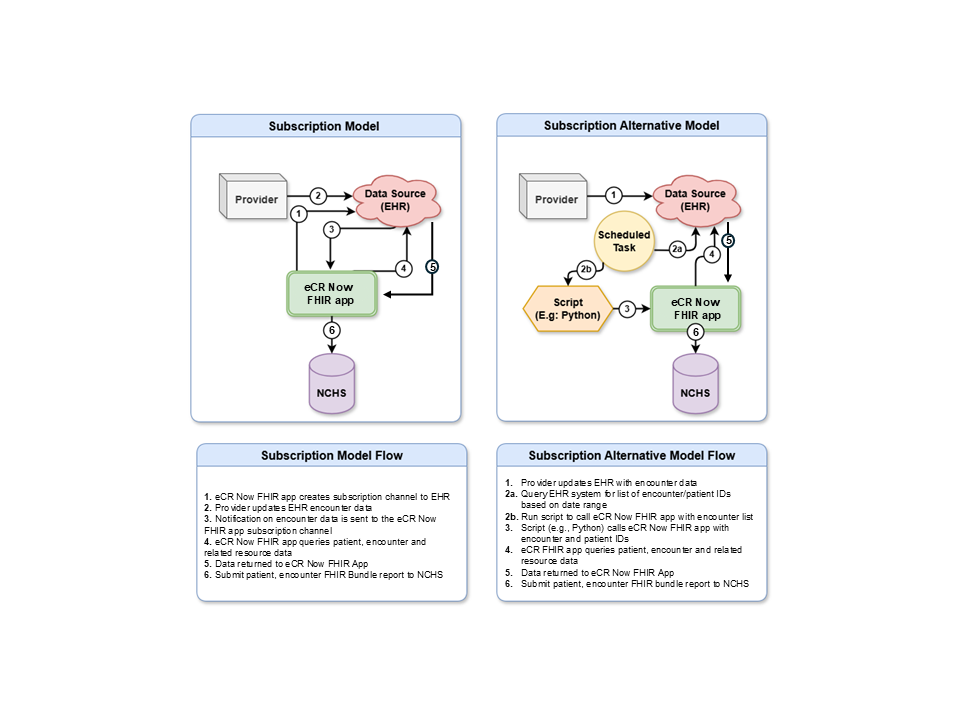
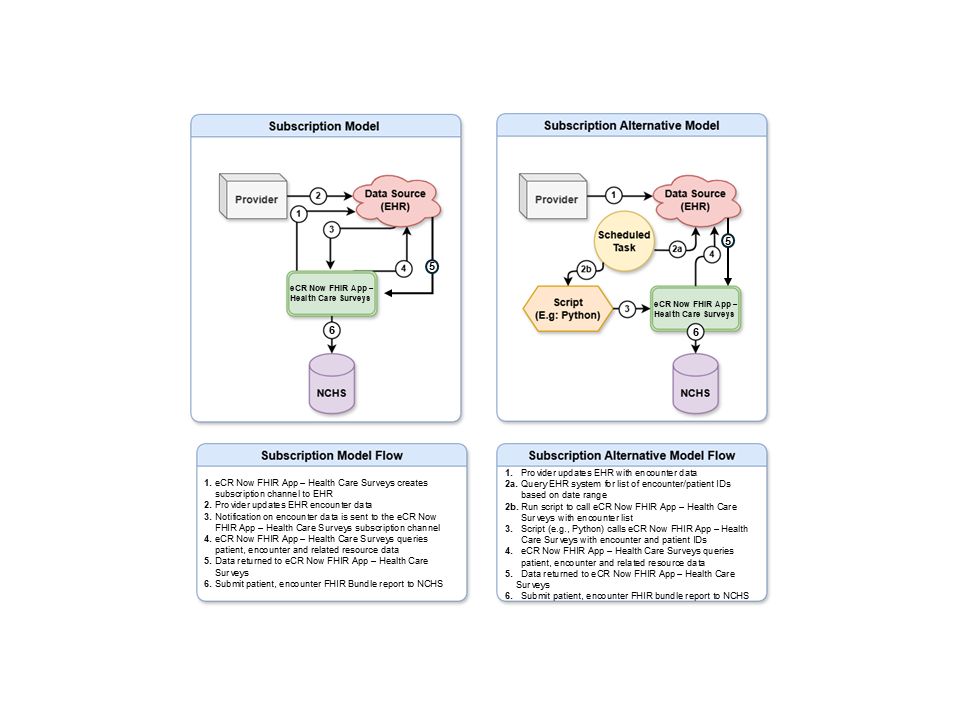
Update to Branding

diff --git a/input/pagecontent/usecases.md b/input/pagecontent/usecases.md
@@ -11,14 +11,14 @@ This FHIR IG references a framework for FHIR reporting based on the eCR Now fram
 
 #### Goals of the Use Case
 
-This use case builds on the work already done by the eCR Now FHIR app with the goal of automating reporting of health surveys data, while reducing the burden on health care providers and modernizing workflows.  Providers can use the eCR Now FHIR App (Health Care Surveys) or develop their own vendor-developed solution to meet the requirements of this IG.  Providers already in production with the eCR program may be able to leverage some of the work done for the eCR Now use case.
+This use case builds on the work already done by the eCR Now FHIR app with the goal of automating reporting of health surveys data, while reducing the burden on health care providers and modernizing workflows.  Providers can use the eCR Now FHIR App- Health Care Surveys or develop their own vendor-developed solution to meet the requirements of this IG.  Providers already in production with the eCR program may be able to leverage some of the work done for the eCR Now use case.
 
 The goals of the Health Care Survey submission use case include:
 * Increase the response rate of sampled hospitals and ambulatory health care providers to the NHCS and the NAMCS.
 * Increase the volume, quality, completeness, and timeliness of data submitted to the NHCS and NAMCS.
 * Reduce the burden, including cost, associated with survey participation for hospitals, ambulatory health care providers, and data source vendors.
 * Reduce NCHS’s costs associated with recruiting hospital and ambulatory health care providers, and the processing of NHCS and NAMCS data.
-* Develop a complete use case supported by the eCR Now FHIR app- Health Care Surveys to allow the reporting of health care survey data from health care providers and systems to NCHS. 
+* Develop a complete use case supported by the eCR Now FHIR App- Health Care Surveys to allow the reporting of health care survey data from health care providers and systems to NCHS. 
 
 ##### Scope of the Use Case
 
@@ -36,7 +36,7 @@ The goals of the Health Care Survey submission use case include:
 * Assessment of the data quality of the content extracted from the Data Source. 
 * Data captured outside the Data Source and communicated directly to registries. 
 * Changes to existing provider workflow or existing data entry. 
-* Policies of the clinical care setting to collect consent for data sharing. (Provider participation in the National Health Care Surveys is by invitation by NCHS based on being selected as part of the nationally representative samples of hospitals or providers. Consent for participation in each National Health Care Survey is obtained during the manual recruitment process.) Adult day services centers, residential care communities, nursing homes, home health agencies, and hospice.
+* Policies of the clinical care setting to collect consent for data sharing. (Provider participation in the National Health Care Surveys is by invitation by NCHS based on being selected as part of the nationally representative samples of hospitals or providers. Consent for participation in each National Health Care Survey is obtained during the manual recruitment process.)
 
 
 #### **User Story #1: Ambulatory Setting** 
@@ -44,7 +44,7 @@ The goals of the Health Care Survey submission use case include:
 **Background:** The National Ambulatory Medical Care Survey (NAMCS) is based on a sample of patient visits to non-federally employed office-based providers who are primarily engaged in direct patient care. NAMCS was redesigned and launched as the Health Center (HC) Component in 2021, the Provider Survey Component in 2023, and is planning to launch the Provider Electronic Component. The Health Center Component samples from health centers while the two provider components sample from physicians and advanced practice providers. NAMCS collects an encounter-based set of demographic and clinical data generally available in a medical record for any type of visit. 
 
  
-**Workflow:** Upon completion of an encounter, the physician or licensed clinician, using the EHR, completes and closes the clinical encounter ("sign off"). This "sign off" triggers the eCR Now FHIR App (Health Care Surveys) or vendor developed solution to evaluate the completed encounter. The completed encounter evaluation includes validating that the provider associated with the encounter is a "sampled" NAMCS provider and the encounter occurred within a specified timeframe. If the encounter meets the criteria, and after a lag period to allow for lab results to post when applicable, the application or vendor developed solution queries the Data Source (e.g. EHR) for a set of FHIR resources representing patient-level and select provider-level data of the encounter. The obtained resources are validated (e.g., conformant to the appropriate FHIR profiles) and transmitted to NCHS where they are received, acknowledged, and loaded into the NCHS Data Store. 
+**Workflow:** Upon completion of an encounter, the physician or licensed clinician, using the EHR, completes and closes the clinical encounter ("sign off"). This "sign off" triggers the eCR Now FHIR App- Health Care Surveys or vendor developed solution to evaluate the completed encounter. The completed encounter evaluation includes validating that the provider associated with the encounter is a "sampled" NAMCS provider and the encounter occurred within a specified timeframe. If the encounter meets the criteria, and after a lag period to allow for lab results to post when applicable, the application or vendor developed solution queries the Data Source (e.g. EHR) for a set of FHIR resources representing patient-level and select provider-level data of the encounter. The obtained resources are validated (e.g., conformant to the appropriate FHIR profiles) and transmitted to NCHS where they are received, acknowledged, and loaded into the NCHS Data Store. 
 
 The following is a diagram of the workflow based on the above user story used for Health Care Surveys Reporting in the Ambulatory Setting:
 
@@ -61,7 +61,7 @@ The following is a diagram of the workflow based on the above user story used fo
 
 **Background:** The National Hospital Care Survey (NHCS) is an electronic data collection, gathering Uniform Bill (UB) 04 administrative claims data or electronic data from sampled hospitals. NHCS is designed to provide reliable and timely nationally representative healthcare utilization data for hospital-based settings. NHCS collects all inpatient discharges and ED encounters from sampled hospitals for a survey period of one year. NHCS’ sample is drawn from all non-federal US hospitals with a staffed inpatient bed size > 6. 
 
- **Workflow:** Upon completion of an inpatient or ED encounter, the physician or licensed clinician completes and closes the clinical encounter ("sign off"). This "sign off" triggers the eCR Now FHIR App (Health Care Surveys) or vendor developed solution to evaluate the completed encounter against the NHCS criteria. If the encounter meets the survey criteria, and after a lag period to allow for lab results to post when applicable, the application or vendor developed solution queries the Data Source for a set of FHIR resources representing patient-level and select provider-level data of the encounter. Once obtained and validated, these resources are transmitted to NCHS where they are received, acknowledged, validated, and loaded into the NCHS Data Store. 
+ **Workflow:** Upon completion of an inpatient or ED encounter, the physician or licensed clinician completes and closes the clinical encounter ("sign off"). This "sign off" triggers the eCR Now FHIR App- Health Care Surveys or vendor developed solution to evaluate the completed encounter against the NHCS criteria. If the encounter meets the survey criteria, and after a lag period to allow for lab results to post when applicable, the application or vendor developed solution queries the Data Source for a set of FHIR resources representing patient-level and select provider-level data of the encounter. Once obtained and validated, these resources are transmitted to NCHS where they are received, acknowledged, validated, and loaded into the NCHS Data Store. 
 
 The following is a diagram of the workflow based on the above user story used for Health Care Surveys Reporting for the Hospital Setting:
 
@@ -77,7 +77,7 @@ The following is a diagram of the workflow based on the above user story used fo
 #### Health Care Surveys Actors and Definitions 
 
 * Data Source (e.g., EHR, clinical data repository)
-* *eCR Now FHIR App (Health Care Surveys) or vendor developed solution
+* *eCR Now FHIR App- Health Care Surveys or vendor developed solution
 * NCHS Data Store acting as a Data Receiver with FHIR capabilities
 * Knowledge Artifact Repository
 
@@ -89,16 +89,16 @@ This section outlines the high-level interactions between the various Actors and
 The descriptions for each step in the above diagram include:
 * Step 1: The National Center for Health Statistics (NCHS) Data Store (e.g., Data Receiver) creates a Knowledge Artifact — a structured, computable, shareable representation of clinical knowledge, such as trigger codes, value-sets, or workflow logic  — and makes it available via the Knowledge Artifact Repository, a FHIR-based service that versions, indexes, and distributes knowledge artifacts to subscribed systems .
      * Step 1a: Knowledge Artifact Repositories which implement notifications, can optionally notify the subscribers (Data Source, eCR Now FHIR App (Health Care Surveys)*, Administrators) of changes in the Knowledge Artifacts.
-* Step 2: The eCR Now FHIR App (Health Care Surveys)* queries the Knowledge Artifact Repository to retrieve a Knowledge Artifact. 
-     * Step 2a: eCR Now FHIR App (Health Care Surveys)* receives the Knowledge Artifact as a response to the query in Step 2.
-* Step 3: The eCR Now FHIR App (Health Care Surveys)* processes the Knowledge Artifact and creates subscriptions in the Data Source’s (e.g., EHR) FHIR Server so that it can be notified when specific events occur in clinical workflows.
+* Step 2: The eCR Now FHIR App- Health Care Surveys* queries the Knowledge Artifact Repository to retrieve a Knowledge Artifact. 
+     * Step 2a: eCR Now FHIR App- Health Care Surveys* receives the Knowledge Artifact as a response to the query in Step 2.
+* Step 3: The eCR Now FHIR App- Health Care Surveys* processes the Knowledge Artifact and creates subscriptions in the Data Source’s (e.g., EHR) FHIR Server so that it can be notified when specific events occur in clinical workflows.
 * Step 4: Providers as part of their clinical workflows update the data in the Data Source’s patient chart.
-* Step 5: The Data Source notifies the eCR Now FHIR App (Health Care Surveys)* based on subscriptions that have been created in Step 3.
-* Step 6: The eCR Now FHIR App (Health Care Surveys)* queries the Data Source for patient’s data.
-     * Step 6a: eCR Now FHIR App (Health Care Surveys)* receives the response from the Data Source with the patient’s data.
-* Step 7: The eCR Now FHIR App (Health Care Surveys)* submits the created report to the NCHS Data Store.
-* Step 8: The NCHS Data Store submits a response back to the eCR Now FHIR App (Health Care Surveys)* based on the submitted report. The Response transaction can be synchronous or asynchronous (after a period of time).
-* Step 9: The eCR Now FHIR App (Health Care Surveys)* writes back the response from the NCHS Data Store to the Data Source as appropriate. 
+* Step 5: The Data Source notifies the eCR Now FHIR App- Health Care Surveys* based on subscriptions that have been created in Step 3.
+* Step 6: The eCR Now FHIR App- Health Care Surveys* queries the Data Source for patient’s data.
+     * Step 6a: eCR Now FHIR App- Health Care Surveys* receives the response from the Data Source with the patient’s data.
+* Step 7: The eCR Now FHIR App- Health Care Surveys* submits the created report to the NCHS Data Store.
+* Step 8: The NCHS Data Store submits a response back to the eCR Now FHIR App- Health Care Surveys* based on the submitted report. The Response transaction can be synchronous or asynchronous (after a period of time).
+* Step 9: The eCR Now FHIR App- Health Care Surveys* writes back the response from the NCHS Data Store to the Data Source as appropriate. 
 
 * *or vendor developed solution
 
@@ -108,6 +108,6 @@ A FHIR Subscription is a standardized mechanism that enables automated notificat
 
 Systems without FHIR Subscription capabilities can implement the alternative method shown, which employs scheduled tasks running at regular intervals. Providers can also develop their own in-house functionality to accomplish an alternative method to subscriptions.
 
-{% include img.html img="alternatives.png" caption="Figure 2.4 - Subscription & Subscription Alternative Models" %}
+{% include img.html img="alternatives.png" caption="Figure 2.4 - Subscription & Subscription Alternative Models" %}s
 
 
